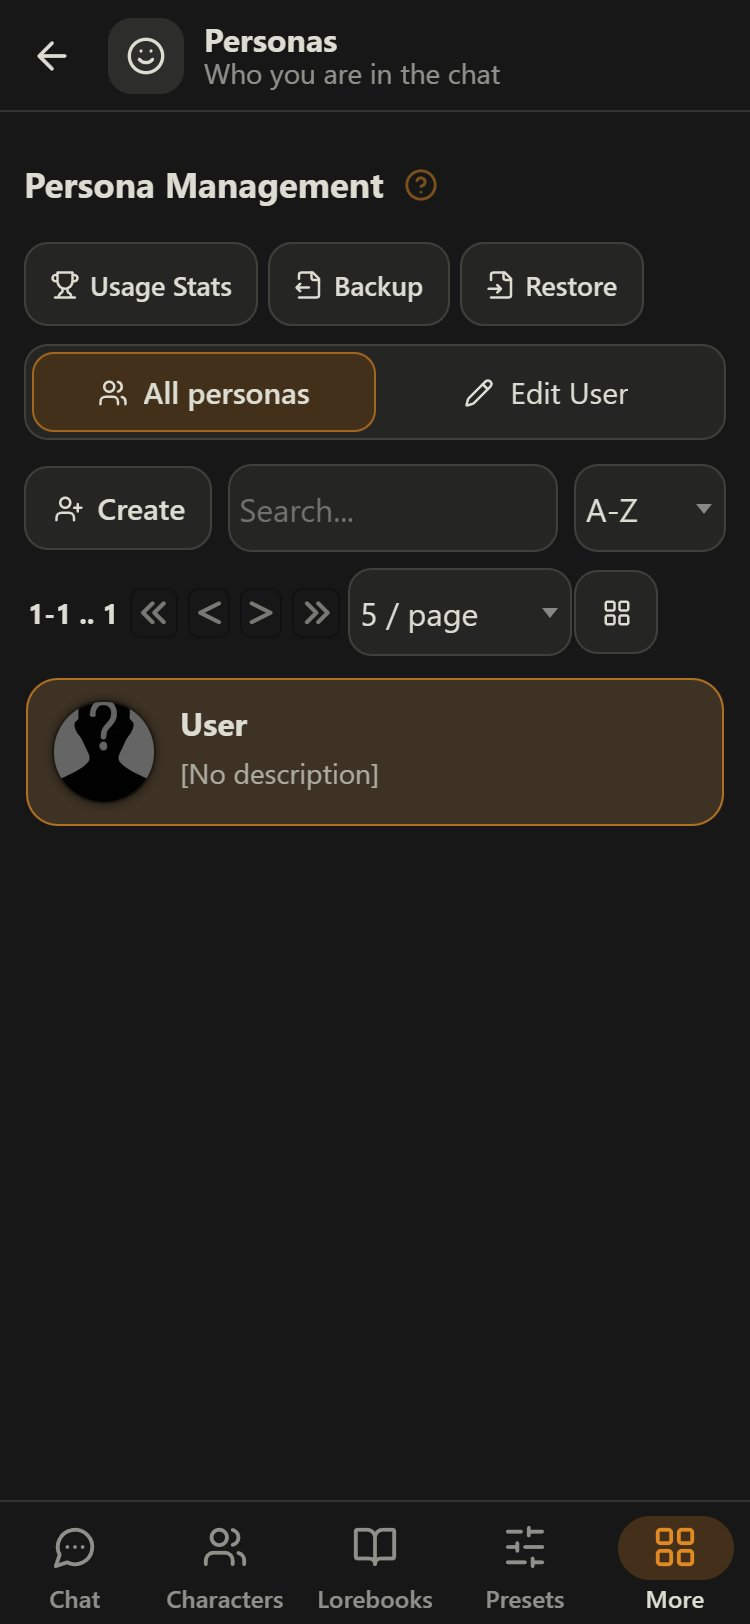
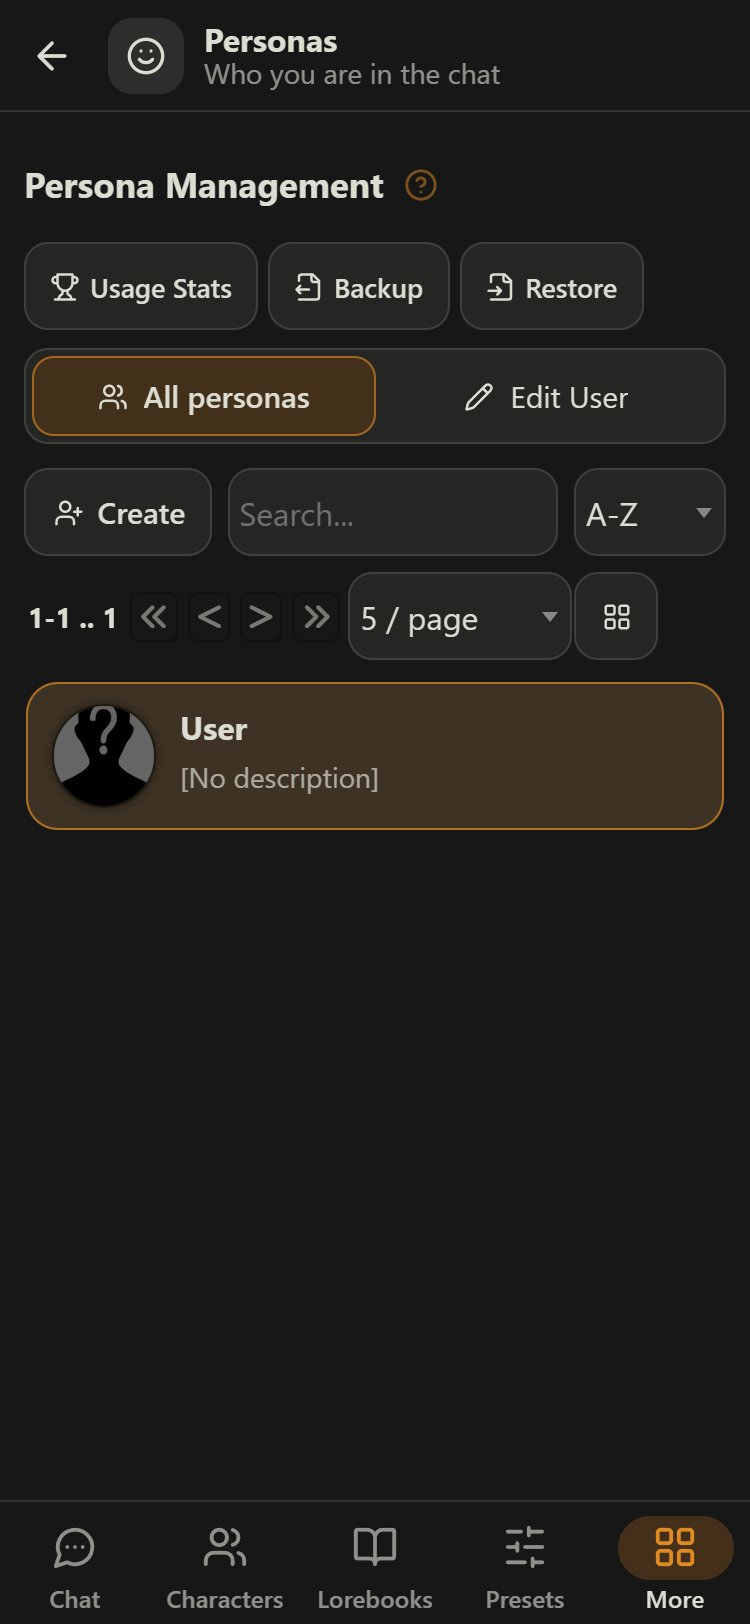
Pocket Tavern 2.15.3: chat search from a page, 44px tap areas everywhere

diff --git a/style.css b/style.css
@@ -2367,7 +2367,7 @@ html.stmui-touch select {
 html.stmui-touch .menu_button,
 html.stmui-touch .menu_button_icon {
     box-sizing: border-box;
-    min-height: 42px;
+    min-height: 44px;
     padding: 8px 12px;
     border-radius: var(--stmui-radius-sm);
 }
@@ -2958,6 +2958,7 @@ html.stmui-on .mes_text video {
     max-width: 128px;
     height: 40px;
     min-height: 40px;
+    position: relative;
     margin: 0 4px 0 1px;
     padding: 0 12px 0 4px;
     border: 1px solid var(--stmui-line);
@@ -2974,6 +2975,13 @@ html.stmui-on .mes_text video {
 
 .stmui-persona-chip:active {
     transform: scale(0.95);
+}
+
+/* The pill is 40px tall to sit in the box; the tap area is 44px. */
+.stmui-persona-chip::after {
+    content: '';
+    position: absolute;
+    inset: -4px -1px;
 }
 
 .stmui-persona-img {
@@ -4488,8 +4496,8 @@ html.stmui-chat .welcomePanel .welcomeHeaderTitle .mes_button {
     flex: 0 0 auto;
     align-items: center;
     justify-content: center;
-    width: 40px;
-    height: 40px;
+    width: 44px;
+    height: 44px;
     margin: 0;
     padding: 0;
     border-radius: 12px;
@@ -4534,7 +4542,7 @@ html.stmui-chat .welcomePanel .welcomeShortcuts .menu_button {
     flex: 0 0 auto;
     gap: 7px;
     min-width: 0;
-    height: 38px;
+    height: 44px;
     margin: 0;
     padding: 0 14px;
     border-radius: 999px;
@@ -4676,8 +4684,8 @@ html.stmui-chat .welcomeRecent .recentChatList .recentChat .chatActions button {
     display: inline-flex;
     align-items: center;
     justify-content: center;
-    width: 38px;
-    height: 38px;
+    width: 44px;
+    height: 44px;
     min-height: 0;
     margin: 0;
     padding: 0;

diff --git a/index.js b/index.js
@@ -1693,6 +1693,7 @@ function openMoreSheet() {
                 }, !inChat),
                 row('chat-plus', 'Start a new chat', () => {
                     closeSheet(true);
+                    closePages();
                     document.getElementById('option_start_new_chat')?.click();
                 }, !inChat),
                 row('phone', 'Phone features', () => openExtrasSheet()),
@@ -1700,6 +1701,8 @@ function openMoreSheet() {
                 row('languages', 'Translate chat', () => openTranslateSheet(), !inChat),
                 row('search', 'Search this chat', () => {
                     closeSheet(true);
+                    // The bar searches the chat, so show the chat, not the page that was open.
+                    closePages();
                     openChatFinder();
                 }, !inChat),
                 isStandalone() ? null : row('download', 'Install as an app', () => installApp()),

diff --git a/changelog.js b/changelog.js
@@ -1,6 +1,13 @@
 /** Shown in More → What's new, and once after each update. Newest first. */
 export const CHANGES = [
     {
+        version: '2.15.3',
+        items: [
+            "Fixed: Search this chat, opened from More while a page was showing, searched behind that page. It now goes to the chat first.",
+            "Every button is at least 44px to tap, including your persona button, Close and the start screen buttons.",
+        ],
+    },
+    {
         version: '2.15.2',
         items: [
             "Fixed: with the keyboard up, the message box squeezed your text into a narrow column.",

diff --git a/CHANGELOG.md b/CHANGELOG.md
@@ -1,5 +1,12 @@
 # Changelog
 
+## 2.15.3
+
+A test round before sharing the project: the phone test, a screen-by-screen check at three sizes and with the keyboard up, a slow-phone speed test, the light theme and Arabic (right to left).
+
+- **Fixed: Search this chat from a page.** Opened from More while a page such as Extensions was showing, the search bar searched the chat behind that page. It now closes the page first, so you see the matches. Start a new chat does the same.
+- **44px to tap everywhere.** SillyTavern's buttons were 42px tall in Pocket Tavern, and a few were smaller: your persona button in the message box, Close on sheets, and the buttons on the start screen (the Recent chats header, Docs/GitHub/Discord, pin/rename/delete on a recent chat). All are at least 44px now.
+
 ## 2.15.2
 
 - **Fixed: squeezed message box while typing.** With the keyboard up, a portrait phone's view is wider than it is tall, so the sideways layout switched on: the message box went to one row and squeezed the text into a narrow column (and the bars got slimmer while typing). The sideways layout now also needs a clearly wide screen (3:2), which only a real sideways phone has.
